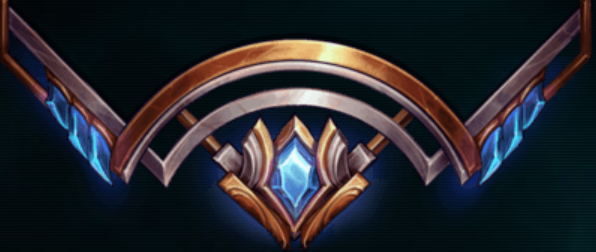
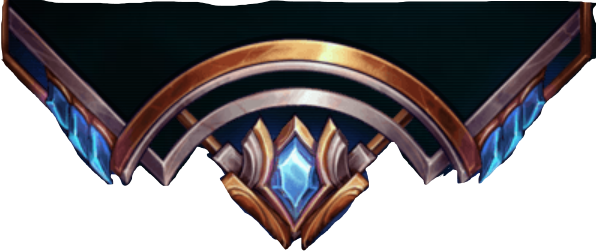
web

diff --git a/src/components/game/Frame.js b/src/components/game/Frame.js
@@ -4,20 +4,21 @@ import rankImg from "../../assets/img/rank.png";
 
 export default function Frame({ user }) {
   return (
-    <div className="frame ">
-      <p className="frame__name">{user.first_name + " " + user.last_name}</p>
-      <div className="grid">
-        <div className="avt grid">
-          {" "}
-          <img className="avt__img" src={user.avatar} alt="" />
+    <div style={{ height: "60%" }} className="position-relative ">
+      <div className="frame ">
+        <p className="frame__name">{user.first_name + " " + user.last_name}</p>
+        <div className="grid">
+          <div className="avt grid">
+            {" "}
+            <img
+              className="avt__img"
+              src={user.avatar ? user.avatar : ""}
+              alt=""
+            />
+          </div>
         </div>
-        <img className="frame__rank" src={rankImg} alt="" />
-        {/* <img
-                            className="frame__borderAvt"
-                            src={boderAvt}
-                            alt=""
-                          /> */}
       </div>
+      <img className="frame__rank" src={rankImg} alt="" />
     </div>
   );
 }

diff --git a/src/components/game/xo/GameXO.js b/src/components/game/xo/GameXO.js
@@ -72,7 +72,15 @@ function GameXO() {
                   <div class="row h-100">
                     <div class="col-12 h-100  position-relative">
                       <Frame user={user} />
-                      <div className="d-flex justify-content-center mt-2">
+                      <div
+                        style={{
+                          position: "absolute",
+                          bottom: "5rem",
+                          left: "50%",
+                          transform: "translateX(-50%)",
+                        }}
+                        className="d-flex justify-content-center mt-5"
+                      >
                         {loading ? (
                           <div>
                             <audio playsInline loop autoPlay>

diff --git a/src/components/game/cw/ConcatedWord.js b/src/components/game/cw/ConcatedWord.js
@@ -77,7 +77,15 @@ function ConctedWord({ user }) {
             <Frame user={user} />
             <div className=" mb-4">
               {!data ? (
-                <div className="d-flex justify-content-center mt-2">
+                <div
+                  style={{
+                    position: "absolute",
+                    bottom: "3rem",
+                    left: "50%",
+                    transform: "translateX(-50%)",
+                  }}
+                  className="d-flex justify-content-center mt-2"
+                >
                   {loading ? (
                     <div>
                       <audio playsInline loop autoPlay>

diff --git a/src/styles/style.css b/src/styles/style.css
@@ -365,7 +365,7 @@ input:focus {
     rgba(92, 103, 99, 0.4322771344866071) 100%
   );
   width: 200px;
-  height: 80%;
+  height: 100%;
   position: relative;
   transform: translate(-50%, 0%);
   left: 50%;
@@ -420,7 +420,11 @@ input:focus {
 .frame__rank {
   width: 100%;
   position: absolute;
-  bottom: 0;
+  /* bottom: 0; */
+  top: 100%;
+  left: 50%;
+  transform: translate(-50%, -10%);
+  width: 200px;
 }
 @keyframes mymove {
   from {
